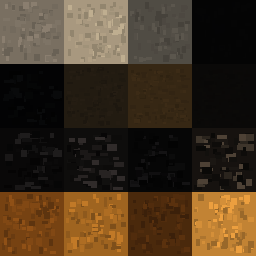
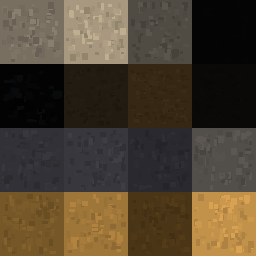
chore(project): revise 5 project files in project
Modified: 5.
Text lines: +17 / -13; binary files: 1.
- Modify: "blender/weapons/sword_sand_block_v1/Sword_Sand_Block_V1.blend"
- Modify: "blender/weapons/sword_sand_block_v1/Sword_Sand_Block_V1.glb"
- Modify: "blender/weapons/sword_sand_block_v1/build_sword.py"
- Modify: "blender/weapons/sword_sand_block_v1/sword_sand_atlas_256.png" (binary)
- Modify: "blender/weapons/sword_sand_block_v1/validate_asset.py"

diff --git a/blender/weapons/sword_sand_block_v1/build_sword.py b/blender/weapons/sword_sand_block_v1/build_sword.py
@@ -16,22 +16,25 @@ root['review_status']='Pending';root['forward']='+Y';root['origin']='RightHandGr
 root['reference']='reference.png — user sword multi-view 2026-10-25'
 atlas=bpy.data.images.load(str(OUT/'palette_source_256.png'),check_existing=False)
 atlas.name='Sword_Sand_Atlas_256';pixels=list(atlas.pixels[:]);rng=random.Random(20261025)
-# Preserve the accepted visible graphite pixel texture. Dedicated gold and silver
-# swatches replace only unused/old sand colors, with restrained broad patches.
-colors={0:(181,139,76),1:(207,168,100),2:(147,111,61),3:(226,190,125),
+# Warm gold and restrained graphite pixels follow the sword reference. The
+# long blade needs quieter variation than the earlier pistol's high contrast.
+colors={0:(181,158,110),1:(207,181,130),2:(147,126,83),3:(226,199,147),
+        4:(49,49,55),5:(56,55,61),6:(41,41,47),7:(82,78,74),
         12:(183,176,166),13:(212,203,187),14:(152,148,141),15:(34,34,36)}
 for tile,rgb in colors.items():
     shades=[[1.0]*64 for _ in range(64)]
     for _ in range(92):
         xx,yy=rng.randrange(2,58),rng.randrange(2,58);w,h=rng.choice([3,4,6]),rng.choice([3,5,7])
-        shade=rng.choice([.90,.95,1.04,1.09]) if tile<4 else rng.choice([.94,.98,1.02,1.06])
+        shade=rng.choice([.95,.98,1.02,1.05]) if tile<4 else (rng.choice([.88,.95,1.04,1.12]) if tile<8 else rng.choice([.94,.98,1.02,1.06]))
         for y in range(yy,min(62,yy+h)):
             for x in range(xx,min(62,xx+w)):shades[y][x]=shade
     for y in range(64):
         for x in range(64):
             i=(((tile//4)*64+y)*256+(tile%4)*64+x)*4
             values=[min(1,v/255*shades[y][x]) for v in rgb]
-            pixels[i:i+4]=[v/12.92 if v<=.04045 else ((v+.055)/1.055)**2.4 for v in values]+[1]
+            # File-image pixels save as encoded values in this native pipeline;
+            # graphite uses direct sRGB values so it stays readable on metal.
+            pixels[i:i+4]=(values if 4<=tile<8 else [v/12.92 if v<=.04045 else ((v+.055)/1.055)**2.4 for v in values])+[1]
 atlas.pixels.foreach_set(pixels);atlas.filepath_raw=str(OUT/'sword_sand_atlas_256.png')
 atlas.file_format='PNG';atlas.save();atlas.pack()
 mat=bpy.data.materials.new('Sword_Hilt_Gold_Graphite');mat.use_nodes=True
@@ -39,8 +42,8 @@ bs=mat.node_tree.nodes.get('Principled BSDF');bs.inputs['Metallic'].default_valu
 tex=mat.node_tree.nodes.new('ShaderNodeTexImage');tex.image=atlas;tex.interpolation='Closest'
 mat.node_tree.links.new(tex.outputs['Color'],bs.inputs['Base Color'])
 blade_mat=mat.copy();blade_mat.name='Sword_Blade_Graphite_Silver'
-blade_mat.node_tree.nodes.get('Principled BSDF').inputs['Metallic'].default_value=.55
-blade_mat.node_tree.nodes.get('Principled BSDF').inputs['Roughness'].default_value=.47
+blade_mat.node_tree.nodes.get('Principled BSDF').inputs['Metallic'].default_value=.16
+blade_mat.node_tree.nodes.get('Principled BSDF').inputs['Roughness'].default_value=.61
 parts={'Hilt':[],'Blade':[]}
 def Y(px):return (px-116)*.0019
 def Z(py):return (587-py)*.0019
@@ -283,7 +286,8 @@ focus=Vector(P(330,587))
 for name,loc,power,size,color in [
     ('Sword Key',(1.4,-.8,2.2),340,2.0,(1,.91,.79)),
     ('Sword Fill',(1.3,1.9,.8),150,1.6,(.76,.85,1)),
-    ('Sword Rim',(-1.4,-.4,1.8),430,1.7,(1,.86,.69))]:
+    ('Sword Rim',(-1.4,-.4,1.8),430,1.7,(1,.86,.69)),
+    ('Sword Lower Fill',(.8,.4,-.10),45,1.5,(.88,.91,1))]:
     data=bpy.data.lights.new(name,'AREA');data.energy=power;data.size=size;data.color=color
     ob=bpy.data.objects.new(name,data);studio.objects.link(ob);ob.location=loc
     ob.rotation_euler=(focus-ob.location).to_track_quat('-Z','Y').to_euler()

diff --git a/blender/weapons/sword_sand_block_v1/validate_asset.py b/blender/weapons/sword_sand_block_v1/validate_asset.py
@@ -34,7 +34,7 @@ heights=[]
 for px in [214,265,390,490,560,588,601,616]:
     hit,top=cast(blade,(0,Y(px),.25),(0,0,-1));assert hit
     heights.append(top.z)
-assert all(a>b+.002 for a,b in zip(heights,heights[1:])),heights
+assert all(a>b+.0015 for a,b in zip(heights,heights[1:])),heights
 for side in [-1,1]:
     hit,field=cast(blade,(side*.2,Y(380),.022),(-side,0,0));assert hit
     hit,fuller=cast(blade,(side*.2,Y(380),0),(-side,0,0));assert hit
